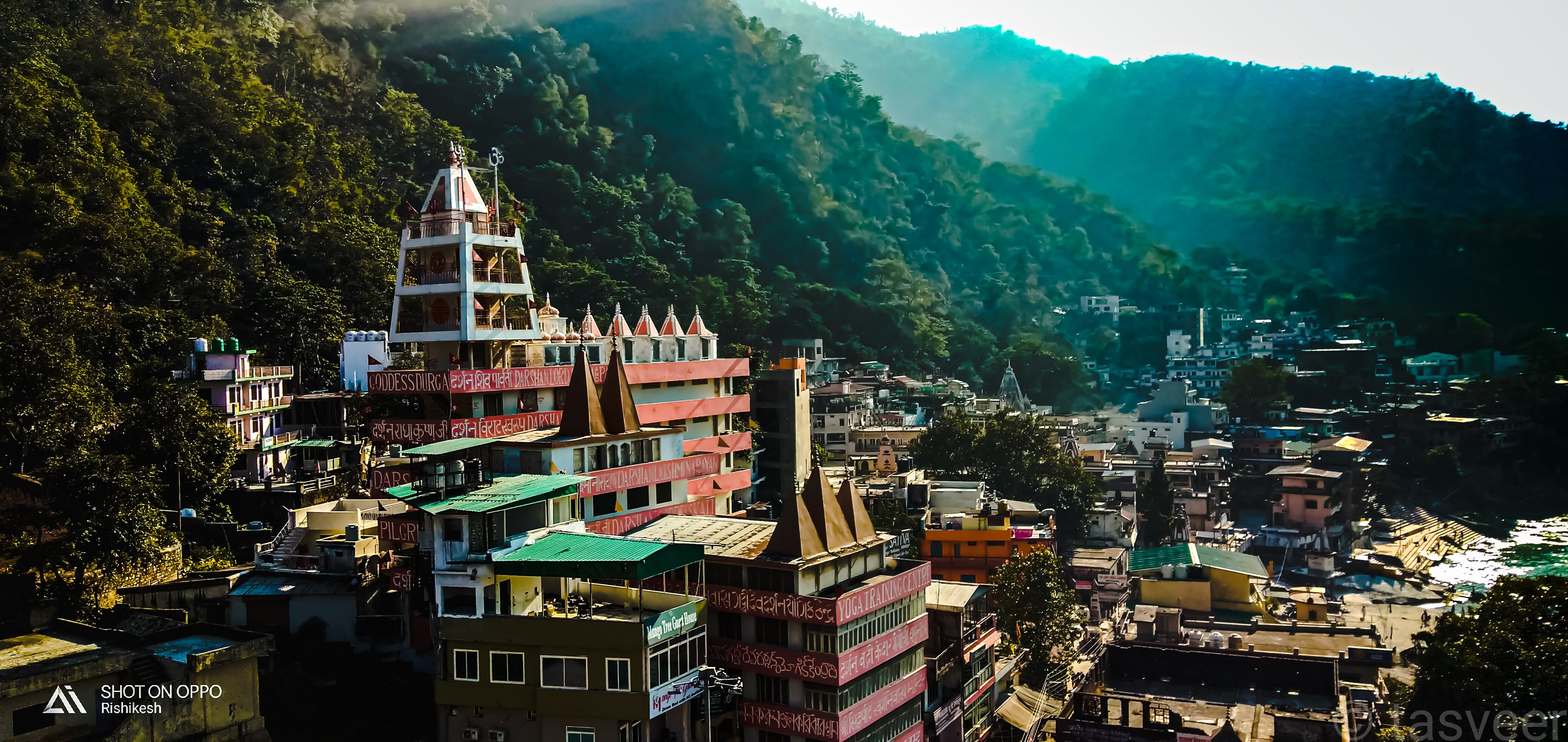
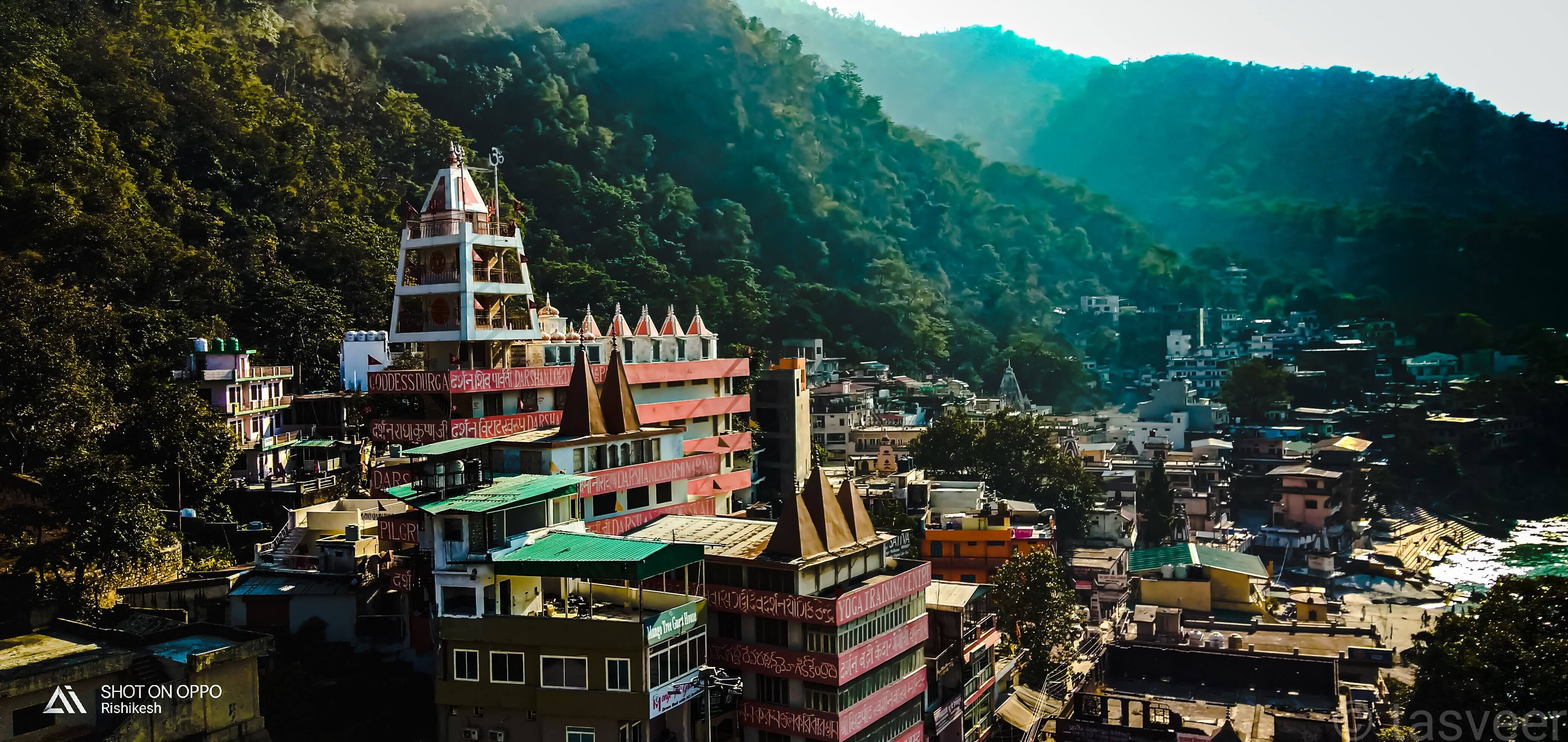
Site Optimised
Reduced file size of slideshow and photos folder

diff --git a/photos.html b/photos.html
@@ -53,55 +53,55 @@
         <div class="row">
              <div class="column">
                
-               <a href="photos/20180731_101310.jpg" target="_blank"><img src="photos/20180731_101310.jpg"></a>
-                 <a href="photos/20181016_174438-01.jpg" target="_blank"><img src="photos/20181016_174438-01.jpg"></a>
-                 <a href="photos/20190117_182320-02.jpg" target="_blank"><img src="photos/20190117_182320-02.jpg"></a>
-                 <a href="photos/20181016_174526-01.jpg" target="_blank"><img src="photos/20181016_174526-01.jpg"></a>
-                 <a href="photos/20190115_114304-01-01.jpg" target="_blank"><img src="photos/20190115_114304-01-01.jpg"></a>
-                 <a href="photos/20180731_101241.jpg" target="_blank"><img src="photos/20180731_101241.jpg"></a>
-                 <a href="photos/rsksh.jpg" target="_blank"><img src="photos/rsksh.jpg"></a>
-                 <a href="photos/psun.jpg" target="_blank"><img src="photos/psun.jpg"></a>
-                 <a href="photos/bsky.jpg" target="_blank"><img src="photos/bsky.jpg"></a>
-                 <a href="photos/PSX_20180803_180537.jpg" target="_blank"><img src="photos/PSX_20180803_180537.jpg"></a>
+               <a href="photos/20180731_101310.jpg" target="_blank"><img src="photos/20180731_1013101.jpg"></a>
+                 <a href="photos/20181016_174438-01.jpg" target="_blank"><img src="photos/20181016_174438-011.jpg"></a>
+                 <a href="photos/20190117_182320-02.jpg" target="_blank"><img src="photos/20190117_182320-021.jpg"></a>
+                 <a href="photos/20181016_174526-01.jpg" target="_blank"><img src="photos/20181016_174526-011.jpg"></a>
+                 <a href="photos/20190115_114304-01-01.jpg" target="_blank"><img src="photos/20190115_114304-01-011.jpg"></a>
+                 <a href="photos/20180731_101241.jpg" target="_blank"><img src="photos/20180731_1012411.jpg"></a>
+                 <a href="photos/rsksh.jpg" target="_blank"><img src="photos/rsksh1.jpg"></a>
+                 <a href="photos/psun.jpg" target="_blank"><img src="photos/psun1.jpg"></a>
+                 <a href="photos/bsky.jpg" target="_blank"><img src="photos/bsky1.jpg"></a>
+                 <a href="photos/PSX_20180803_180537.jpg" target="_blank"><img src="photos/PSX_20180803_180537.jpg1"></a>
                </div>
             
              <div class="column">
-                 <a href="photos/mount.jpg" target="_blank"><img src="photos/mount.jpg"></a>
-                 <a href="photos/PSX_20180801_182845.jpg" target="_blank"><img src="photos/PSX_20180801_182845.jpg"></a>
-                 <a href="photos/20190305_185145-01.jpg" target="_blank"><img src="photos/20190305_185145-01.jpg"></a>
-                 <a href="photos/20190315_035453-01.jpg" target="_blank"> <img src="photos/20190315_035453-01.jpg"></a>
-                 <a href="photos/20190318_183046-01.jpg" target="_blank"><img src="photos/20190318_183046-01.jpg"></a>
-                 <a href="photos/20190318_183136-02.jpg" target="_blank"><img src="photos/20190318_183136-02.jpg"></a>
-                 <a href="photos/IMG_20181118_155111_332.jpg" target="_blank"><img src="photos/IMG_20181118_155111_332.jpg"></a>
-                 <a href="photos/PSX_20180802_110054.jpg" target="_blank"><img src="photos/PSX_20180802_110054.jpg"></a>   
+                 <a href="photos/mount.jpg" target="_blank"><img src="photos/mount1.jpg"></a>
+                 <a href="photos/PSX_20180801_182845.jpg" target="_blank"><img src="photos/PSX_20180801_1828451.jpg"></a>
+                 <a href="photos/20190305_185145-01.jpg" target="_blank"><img src="photos/20190305_185145-011.jpg"></a>
+                 <a href="photos/20190315_035453-01.jpg" target="_blank"> <img src="photos/20190315_035453-011.jpg"></a>
+                 <a href="photos/20190318_183046-01.jpg" target="_blank"><img src="photos/20190318_183046-011.jpg"></a>
+                 <a href="photos/20190318_183136-02.jpg" target="_blank"><img src="photos/20190318_183136-021.jpg"></a>
+                 <a href="photos/IMG_20181118_155111_332.jpg" target="_blank"><img src="photos/IMG_20181118_155111_3321.jpg"></a>
+                 <a href="photos/PSX_20180802_110054.jpg" target="_blank"><img src="photos/PSX_20180802_110054.jpg1"></a>   
              </div>
              <div class="column">
-                 <a href="photos/IMG_20200115_103116_5.jpg" target="_blank"><img src="photos/IMG_20200115_103116_5.jpg"></a>
-                 <a href="photos/jg.jpg" target="_blank"><img src="photos/jg.jpg"></a>
-                 <a href="photos/kota.jpg" target="_blank"><img src="photos/kota.jpg"></a>
-                 <a href="photos/IMG_20200115_172803_1.jpg" target="_blank"><img src="photos/IMG_20200115_172803_1.jpg"></a>
-                 <a href="photos/LRM_EXPORT_101806694530149_20190602_232502274.jpg" target="_blank"><img src="photos/LRM_EXPORT_101806694530149_20190602_232502274.jpg"></a>
-                 <a href="photos/LRM_EXPORT_1530436311006604_20190908_160851232-02.jpg" target="_blank"><img src="photos/LRM_EXPORT_1530436311006604_20190908_160851232-02.jpg"></a>
-                 <a href="photos/LRM_EXPORT_209150387972117_20190706_114541953.jpg" target="_blank"><img src="photos/LRM_EXPORT_209150387972117_20190706_114541953.jpg"></a>
-                 <a href="photos/LRM_EXPORT_243659673887786_20190616_232051361-03-01.jpg" target="_blank"><img src="photos/LRM_EXPORT_243659673887786_20190616_232051361-03-01.jpg"></a>
+                 <a href="photos/IMG_20200115_103116_5.jpg" target="_blank"><img src="photos/IMG_20200115_103116_51.jpg"></a>
+                 <a href="photos/jg.jpg" target="_blank"><img src="photos/jg1.jpg"></a>
+                 <a href="photos/kota.jpg" target="_blank"><img src="photos/kota1.jpg"></a>
+                 <a href="photos/IMG_20200115_172803_1.jpg" target="_blank"><img src="photos/IMG_20200115_172803_11.jpg"></a>
+                 <a href="photos/LRM_EXPORT_101806694530149_20190602_232502274.jpg" target="_blank"><img src="photos/LRM_EXPORT_101806694530149_20190602_2325022741.jpg"></a>
+                 <a href="photos/LRM_EXPORT_1530436311006604_20190908_160851232-02.jpg" target="_blank"><img src="photos/LRM_EXPORT_1530436311006604_20190908_160851232-021.jpg"></a>
+                 <a href="photos/LRM_EXPORT_209150387972117_20190706_114541953.jpg" target="_blank"><img src="photos/LRM_EXPORT_209150387972117_20190706_1145419531.jpg"></a>
+                 <a href="photos/LRM_EXPORT_243659673887786_20190616_232051361-03-01.jpg" target="_blank"><img src="photos/LRM_EXPORT_243659673887786_20190616_232051361-03-011.jpg"></a>
              </div>
              <div class="column">
-                 <a href="photos/LRM_EXPORT_244249430202249_20190616_233042385-01-01.jpg" target="_blank"><img src="photos/LRM_EXPORT_244249430202249_20190616_233042385-01-01.jpg"></a>
-                 <a href="hotos/LRM_EXPORT_273700306776290_20190719_184006808-01.jpg" target="_blank"><img src="photos/LRM_EXPORT_273700306776290_20190719_184006808-01.jpg"></a>
-                 <a href="photos/LRM_EXPORT_29457938469253_20190520_225830624.jpg" target="_blank"><img src="photos/LRM_EXPORT_29457938469253_20190520_225830624.jpg"></a>
-                 <a href="photos/LRM_EXPORT_29608726050492_20190520_230101411.jpg" target="_blank"><img src="photos/LRM_EXPORT_29608726050492_20190520_230101411.jpg"></a>
-                 <a href="photos/20190117_182320-01.jpg" target="_blank"><img src="photos/20190117_182320-01.jpg"></a>
-                 <a href="photos/LRM_EXPORT_416550261673341_20190621_204016420-01-01.jpg" target="_blank"><img src="photos/LRM_EXPORT_416550261673341_20190621_204016420-01-01.jpg"></a>
-                 <a href="photos/LRM_EXPORT_418127951074250_20190621_211232075-01-01.jpg" target="_blank"><img src="photos/LRM_EXPORT_418127951074250_20190621_211232075-01-01.jpg"></a>
+                 <a href="photos/LRM_EXPORT_244249430202249_20190616_233042385-01-01.jpg" target="_blank"><img src="photos/LRM_EXPORT_244249430202249_20190616_233042385-01-011.jpg"></a>
+                 <a href="hotos/LRM_EXPORT_273700306776290_20190719_184006808-01.jpg" target="_blank"><img src="photos/LRM_EXPORT_273700306776290_20190719_184006808-011.jpg"></a>
+                 <a href="photos/LRM_EXPORT_29457938469253_20190520_225830624.jpg" target="_blank"><img src="photos/LRM_EXPORT_29457938469253_20190520_2258306241.jpg"></a>
+                 <a href="photos/LRM_EXPORT_29608726050492_20190520_230101411.jpg" target="_blank"><img src="photos/LRM_EXPORT_29608726050492_20190520_2301014111.jpg"></a>
+                 <a href="photos/20190117_182320-01.jpg" target="_blank"><img src="photos/20190117_182320-011.jpg"></a>
+                 <a href="photos/LRM_EXPORT_416550261673341_20190621_204016420-01-01.jpg" target="_blank"><img src="photos/LRM_EXPORT_416550261673341_20190621_204016420-01-011.jpg"></a>
+                 <a href="photos/LRM_EXPORT_418127951074250_20190621_211232075-01-01.jpg" target="_blank"><img src="photos/LRM_EXPORT_418127951074250_20190621_211232075-01-011.jpg"></a>
              </div>
              <div class="column">
-                 <a href="photos/LRM_EXPORT_56563121764769_20190601_213056684-01.jpg" target="_blank"><img src="photos/LRM_EXPORT_56563121764769_20190601_213056684-01.jpg"></a>
-                 <a href="photos/LRM_EXPORT_61384487323633_20190521_202500435.jpg" target="_blank"><img src="photos/LRM_EXPORT_61384487323633_20190521_202500435.jpg"></a>
-                 <a href="photos/LRM_EXPORT_62427120183310_20190521_204223068-01.jpg" target="_blank"><img src="photos/LRM_EXPORT_62427120183310_20190521_204223068-01.jpg"></a>
-                 <a href="photos/LRM_EXPORT_63366769448599_20190521_205803314.jpg" target="_blank"><img src="photos/LRM_EXPORT_63366769448599_20190521_205803314.jpg"></a>
-                 <a href="photos/LRM_EXPORT_738972609314235_20190815_072914357.jpg" target="_blank"><img src="photos/LRM_EXPORT_738972609314235_20190815_072914357.jpg"></a>
-                 <a href="photos/LRM_EXPORT_813048006855182_20190817_105028201.jpg" target="_blank"><img src="photos/LRM_EXPORT_813048006855182_20190817_105028201.jpg"></a>
-                 <a href="photos/ghtree.jpg" target="_blank"><img src="photos/ghtree.jpg"></a>
+                 <a href="photos/LRM_EXPORT_56563121764769_20190601_213056684-01.jpg" target="_blank"><img src="photos/LRM_EXPORT_56563121764769_20190601_213056684-011.jpg"></a>
+                 <a href="photos/LRM_EXPORT_61384487323633_20190521_202500435.jpg" target="_blank"><img src="photos/LRM_EXPORT_61384487323633_20190521_2025004351.jpg"></a>
+                 <a href="photos/LRM_EXPORT_62427120183310_20190521_204223068-01.jpg" target="_blank"><img src="photos/LRM_EXPORT_62427120183310_20190521_204223068-011.jpg"></a>
+                 <a href="photos/LRM_EXPORT_63366769448599_20190521_205803314.jpg" target="_blank"><img src="photos/LRM_EXPORT_63366769448599_20190521_2058033141.jpg"></a>
+                 <a href="photos/LRM_EXPORT_738972609314235_20190815_072914357.jpg" target="_blank"><img src="photos/LRM_EXPORT_738972609314235_20190815_0729143571.jpg"></a>
+                 <a href="photos/LRM_EXPORT_813048006855182_20190817_105028201.jpg" target="_blank"><img src="photos/LRM_EXPORT_813048006855182_20190817_1050282011.jpg"></a>
+                 <a href="photos/ghtree.jpg" target="_blank"><img src="photos/ghtree1.jpg"></a>
            
              </div>
            </div>
